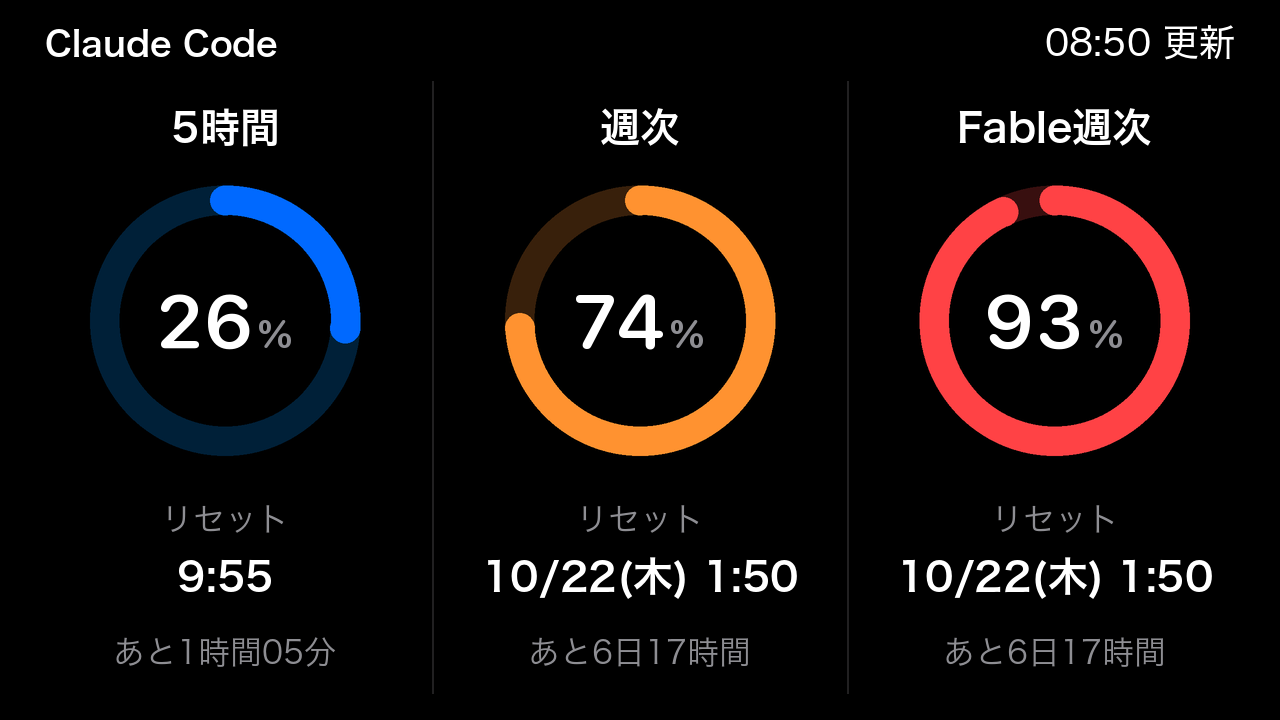
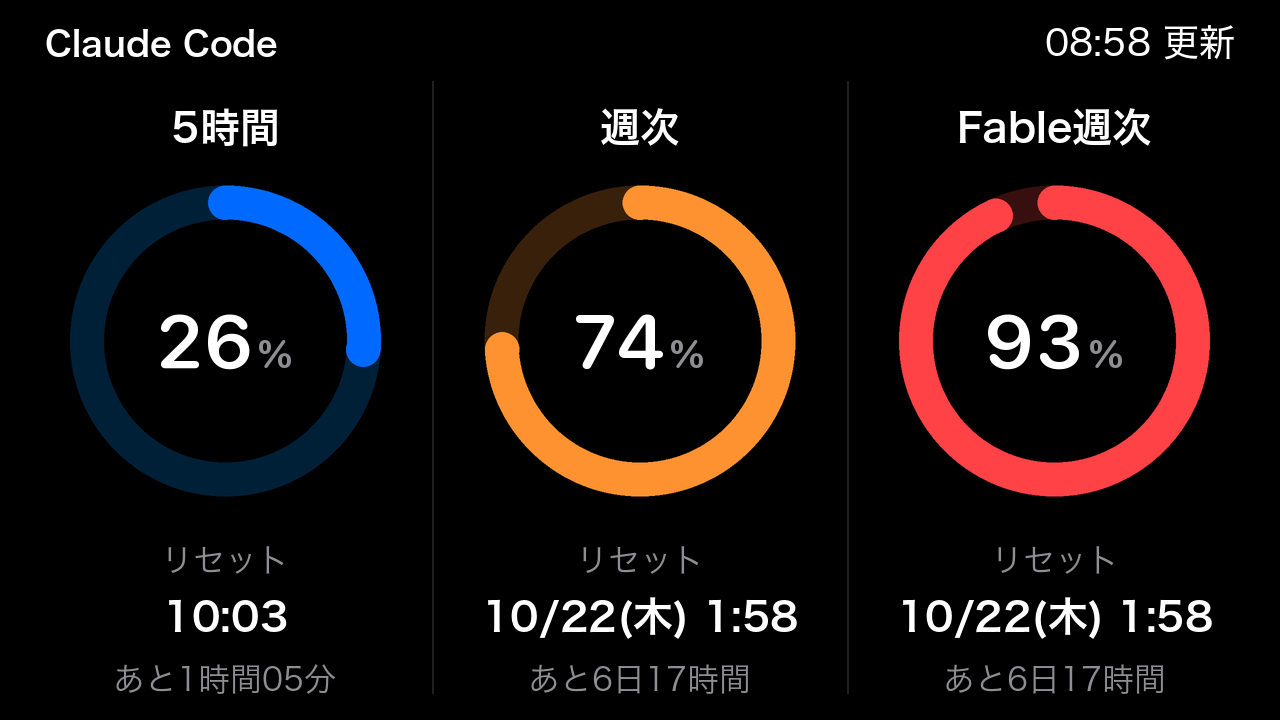
fix: 5.2 インチのリングを 1.15 倍にし、「あと…」を日時に寄せる
カードが無くなって下の隙間が目立ったため（ユーザーが実機で候補から選んだ）。
名前の位置は gauge.content_top で変えず、リセット以降だけを下げる。

diff --git a/tests/test_gauge.py b/tests/test_gauge.py
@@ -1,4 +1,5 @@
 import math
+from dataclasses import replace
 import unittest
 from datetime import datetime, timedelta, timezone
 
@@ -56,7 +57,7 @@ class GaugeRenderTest(unittest.TestCase):
         for index, expected in enumerate((gauge.BLUE, gauge.ORANGE, gauge.RED)):
             left, top, right, bottom = gauge.card_box(index)
             cx = (left + right) / 2
-            cy = top + (bottom - top - content_height) / 2 + ring_y
+            cy = gauge.content_top() + ring_y
             # 3 時の位置（どの値でも 25% を超えていれば塗られている）
             x, y = cx + gauge.RING_RADIUS - gauge.RING_WIDTH / 2, cy
             pixel = image.getpixel((math.floor(x), math.floor(y)))
@@ -109,10 +110,10 @@ class LargeGaugeTest(unittest.TestCase):
     def test_ring_color_follows_severity(self):
         image = gauge.render(snapshot(26, 74, 93), NOW, size=self.SIZE)
         _label, ring_y, *_rest, content_height = gauge.content_rows(self.LAYOUT)
-        radius, width = self.LAYOUT.cpx(gauge.RING_RADIUS), self.LAYOUT.cpx(gauge.RING_WIDTH)
+        radius, width = self.LAYOUT.ring_px()
         for index, expected in enumerate((self.LAYOUT.blue, gauge.ORANGE, gauge.RED)):
             left, top, right, bottom = gauge.card_box(index, self.LAYOUT)
-            x, y = (left + right) / 2 + radius - width / 2, top + (bottom - top - content_height) / 2 + ring_y
+            x, y = (left + right) / 2 + radius - width / 2, gauge.content_top(self.LAYOUT) + ring_y
             pixel = image.getpixel((math.floor(x), math.floor(y)))
             with self.subTest(index=index):
                 self.assertTrue(all(abs(a - b) <= 12 for a, b in zip(pixel, expected)), pixel)
@@ -124,14 +125,26 @@ class LargeGaugeTest(unittest.TestCase):
         self.assertEqual(gauge.layout_for((480, 320)).blue, gauge.BLUE)
         image = gauge.render(snapshot(26, 74, 93), NOW, size=self.SIZE)
         _label, ring_y, *_rest, content_height = gauge.content_rows(self.LAYOUT)
-        radius, width = self.LAYOUT.cpx(gauge.RING_RADIUS), self.LAYOUT.cpx(gauge.RING_WIDTH)
+        radius, width = self.LAYOUT.ring_px()
         left, top, right, bottom = gauge.card_box(0, self.LAYOUT)
-        y = top + (bottom - top - content_height) / 2 + ring_y
+        y = gauge.content_top(self.LAYOUT) + ring_y
         arc = image.getpixel((math.floor((left + right) / 2 + radius - width / 2), math.floor(y)))  # 3 時: 26% の弧の中
         track = image.getpixel((math.floor((left + right) / 2 - radius + width / 2), math.floor(y)))  # 9 時: 地
         self.assertTrue(all(abs(a - b) <= 2 for a, b in zip(arc, self.LAYOUT.blue)), arc)
         expected = gauge._mix(gauge.BLUE, gauge.BACKGROUND, gauge.DARK_TRACK_MIX)
         self.assertTrue(all(abs(a - b) <= 2 for a, b in zip(track, expected)), track)
+
+    def test_larger_ring_moves_only_the_rows_below_it(self):
+        # カードが無くなって下の隙間が目立ったので、リングを 1.15 倍にし、「あと…」を日時に寄せた（2026-10-15）。名前は動かさない
+        self.assertEqual((self.LAYOUT.ring, self.LAYOUT.remain_gap), (1.15, 22))
+        self.assertEqual((gauge.layout_for((480, 320)).ring, gauge.layout_for((480, 320)).remain_gap), (1.0, gauge.REMAIN_GAP))
+        plain = replace(self.LAYOUT, ring=1.0, remain_gap=gauge.REMAIN_GAP)
+        rows, plain_rows = gauge.content_rows(self.LAYOUT), gauge.content_rows(plain)
+        self.assertEqual(gauge.content_top(self.LAYOUT), gauge.content_top(plain))
+        self.assertEqual(rows[0], plain_rows[0])  # 名前
+        self.assertGreater(rows[1], plain_rows[1])  # リングの中心
+        bottom = gauge.content_top(self.LAYOUT) + rows[-1]
+        self.assertAlmostEqual(self.LAYOUT.height - bottom, self.LAYOUT.px(gauge.MARGIN), delta=1)  # 下の余白は左右と同じ
 
     def test_cards_are_replaced_by_dividers(self):
         # カードの面の灰色が 3.5 インチ（黒地）と色が違って見える原因の 1 つだったので、黒地に縦の区切り線にした（2026-10-15）
@@ -153,9 +166,10 @@ class LargeGaugeTest(unittest.TestCase):
         self.assertEqual((gauge.layout_for((480, 320)).content, gauge.layout_for((480, 320)).stamp), (1.0, gauge.FOOTNOTE))
         self.assertGreater(self.LAYOUT.content, 1.0)
         *_rows, content_height = gauge.content_rows(self.LAYOUT)
-        _left, top, _right, bottom = gauge.card_box(0, self.LAYOUT)
-        self.assertGreaterEqual((bottom - top - content_height) / 2, 20)  # 上下に余白が残る
-        self.assertLess(2 * self.LAYOUT.cpx(gauge.RING_RADIUS), self.LAYOUT.card_width - 2 * self.LAYOUT.px(gauge.CARD_PADDING))
+        self.assertGreaterEqual(gauge.content_top(self.LAYOUT) - self.LAYOUT.px(gauge.CARD_TOP), 20)  # 見出しとの間
+        bottom_margin = self.LAYOUT.height - (gauge.content_top(self.LAYOUT) + content_height)
+        self.assertGreaterEqual(bottom_margin, self.LAYOUT.px(gauge.MARGIN))  # 下の端との間
+        self.assertLess(2 * self.LAYOUT.ring_px()[0], self.LAYOUT.card_width - 2 * self.LAYOUT.px(gauge.CARD_PADDING))
 
     def test_remaining_time_is_written_like_the_reset_caption(self):
         # 5.2 インチは「あと…」を「リセット」の見出しと同じ灰色・大きさ・太さにする（2026-10-13）。3.5 インチは白の W4 のまま
@@ -164,7 +178,7 @@ class LargeGaugeTest(unittest.TestCase):
         image = gauge.render(snapshot(26, 74, 93), NOW, size=self.SIZE)
         _label, _ring, _caption, _when, remain_y, content_height = gauge.content_rows(self.LAYOUT)
         left, top, right, bottom = gauge.card_box(0, self.LAYOUT)
-        baseline = round(top + (bottom - top - content_height) / 2 + remain_y)
+        baseline = round(gauge.content_top(self.LAYOUT) + remain_y)
         band = [image.getpixel((x, y)) for x in range(round(left) + 20, round(right) - 20)
                 for y in range(baseline - 25, baseline + 4)]
         self.assertTrue(any(near(p, gauge.SECONDARY, 20) for p in band), "灰色の字が無い")

diff --git a/tests/test_runner.py b/tests/test_runner.py
@@ -218,8 +218,9 @@ class TurzxRunnerTest(unittest.TestCase):
         layout = cli.gauge.layout_for((1280, 720))
         _label, ring_y, *_rest, content_height = cli.gauge.content_rows(layout)
         left, top, right, bottom = cli.gauge.card_box(0, layout)
-        x = int((left + right) / 2 + layout.cpx(cli.gauge.RING_RADIUS) - layout.cpx(cli.gauge.RING_WIDTH) / 2)
-        y = int(top + (bottom - top - content_height) / 2 + ring_y)
+        radius, width = layout.ring_px()
+        x = int((left + right) / 2 + radius - width / 2)
+        y = int(cli.gauge.content_top(layout) + ring_y)
         pixel = sent.getpixel((719 - y, x))
         self.assertTrue(all(abs(a - b) <= 2 for a, b in zip(pixel, layout.blue)), pixel)
 
